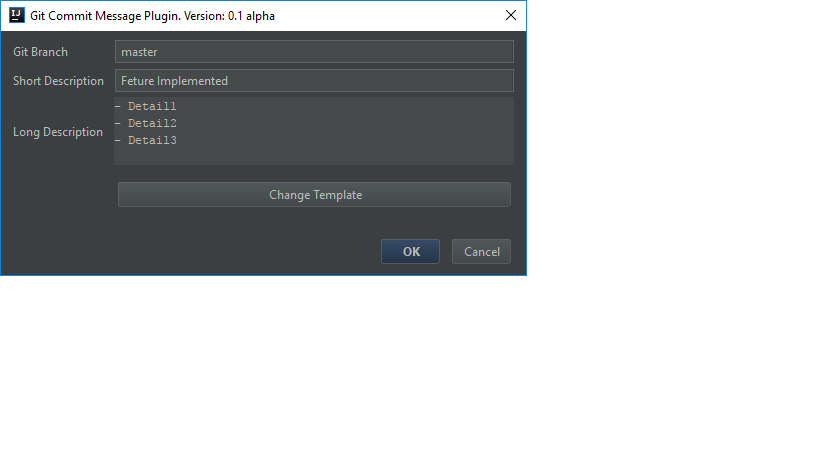
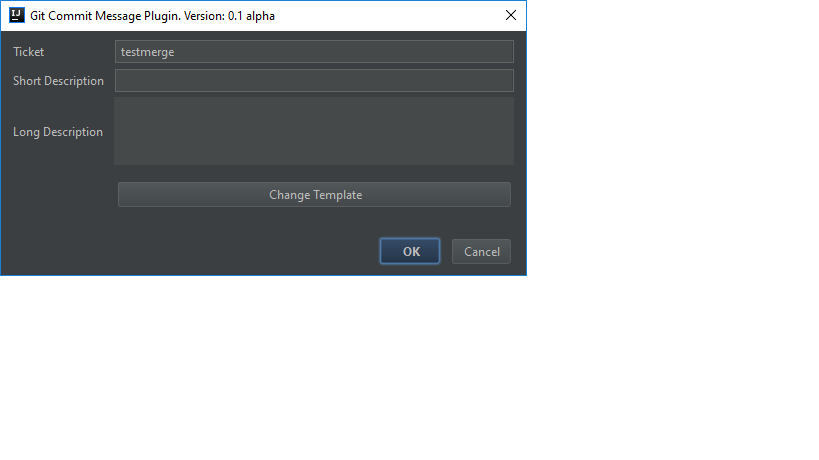
- Renamed gitBranch to ticket - Extracted Ticket from Branch

diff --git a/src/de/gatting/scm/Panel.java b/src/de/gatting/scm/Panel.java
@@ -5,20 +5,28 @@ import com.intellij.openapi.ui.DialogBuilder;
 import com.intellij.openapi.ui.DialogWrapper;
 import git4idea.GitLocalBranch;
 import git4idea.branch.GitBranchUtil;
+import org.apache.commons.lang3.StringUtils;
 
 import javax.swing.*;
 
 public class Panel {
     private JPanel mainPanel;
-    private JTextField branch;
+    private JTextField ticket;
     private JTextField shortDescription;
     private JTextArea longDescription;
     private JButton changeTemplateButton;
 
     Panel(Project project) {
-
         GitLocalBranch currentBranch = GitBranchUtil.getCurrentRepository(project).getCurrentBranch();
-        branch.setText(currentBranch.getName());
+        // Branch name  matches Ticket Name
+        String branch = currentBranch.getName().trim();
+        // If e.g feature branch feature/JiraId-1234
+        if (branch.contains("/")) {
+            ticket.setText(StringUtils.substringAfterLast(branch, "/"));
+        } else {
+            ticket.setText(currentBranch.getName());
+        }
+
         changeTemplateButton.addActionListener(e -> {
             DialogWrapper dialog = createTemplateDialog(project);
             dialog.show();
@@ -29,8 +37,8 @@ public class Panel {
         return mainPanel;
     }
 
-    public String getBranch() {
-        return branch.getText().trim();
+    public String getTicket() {
+        return this.ticket.getText();
     }
 
     public String getShortDescription() {
@@ -45,6 +53,7 @@ public class Panel {
     public DialogWrapper createTemplateDialog(Project project) {
         Template template = new Template(project);
         DialogBuilder builder = new DialogBuilder(project);
+        builder.setTitle("Git Commit Message Plugin.");
         builder.setCenterPanel(template.getMainPanel());
         builder.removeAllActions();
         builder.addOkAction();

diff --git a/src/de/gatting/scm/PanelDialog.java b/src/de/gatting/scm/PanelDialog.java
@@ -7,7 +7,6 @@ import org.apache.commons.lang3.text.StrSubstitutor;
 import org.jetbrains.annotations.Nullable;
 
 import javax.swing.*;
-import java.io.IOException;
 import java.util.HashMap;
 import java.util.Map;
 
@@ -36,7 +35,7 @@ public class PanelDialog extends DialogWrapper {
         String templateString = fileHandler.loadFile(project);
 
         Map<String, String> valuesMap = new HashMap();
-        valuesMap.put(Consts.GIT_BRANCH, getBranch());
+        valuesMap.put(Consts.TICKET, getBranch());
         valuesMap.put(Consts.SHORT_DESCRIPTION, panel.getShortDescription());
         valuesMap.put(Consts.LONG_DESCRIPTION, getLongDescription(templateString));
         StrSubstitutor sub = new StrSubstitutor(valuesMap);
@@ -54,7 +53,7 @@ public class PanelDialog extends DialogWrapper {
     }
 
     private String getBranch() {
-        return panel.getBranch();
+        return panel.getTicket();
     }
 
     /**

diff --git a/src/de/gatting/scm/Consts.java b/src/de/gatting/scm/Consts.java
@@ -1,7 +1,7 @@
 package de.gatting.scm;
 
 public final class Consts {
-    public static final String GIT_BRANCH = "gitBranch";
+    public static final String TICKET = "ticket";
     public static final String SHORT_DESCRIPTION = "shortDescription";
     public static final String LONG_DESCRIPTION = "longDescription";
     public static final String VERSION = "0.1 alpha";
